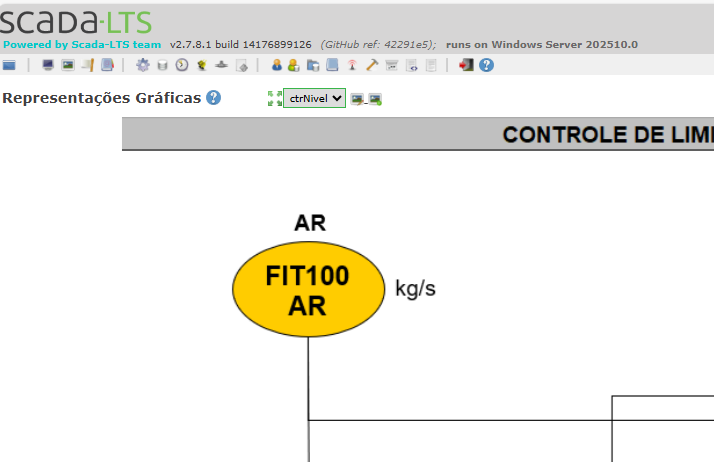
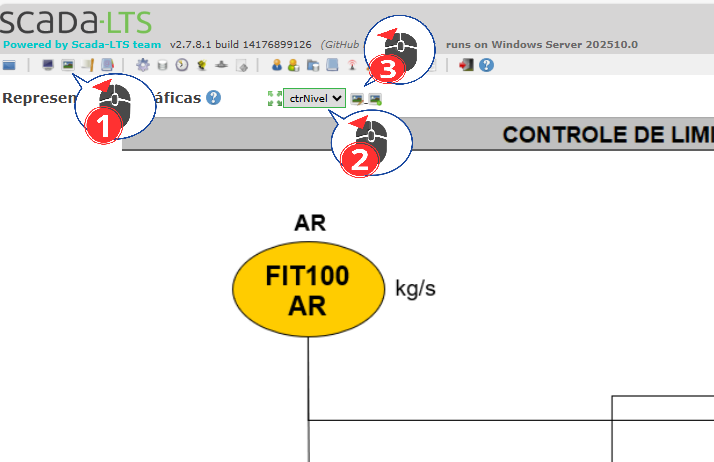
refactor imgs

Changed region(s): [[0.4622, 0.2424, 0.5854, 0.3939], [0.0924, 0.1515, 0.2157, 0.3333], [0.493, 0.0303, 0.6162, 0.1818]]

diff --git a/README.md b/README.md
@@ -578,8 +578,8 @@ Aqui você irá configurar o SCADA‑LTS para **conectar no servidor Modbus (COD
 ### 🔹 Passo 1 – Abrir Data Sources
 ![fig41](assets/configlts/img1.png)
 
-1. No SCADA‑LTS, vá em **Ferramentas → Data Sources**
-2. Clique para adicionar uma nova fonte de dados
+1⃣ No SCADA‑LTS, vá em **Ferramentas → Data Sources**
+2⃣ Clique para adicionar uma nova fonte de dados
 
 ---
 
@@ -587,8 +587,8 @@ Aqui você irá configurar o SCADA‑LTS para **conectar no servidor Modbus (COD
 ### 🔹 Passo 2 – Selecionar “Modbus IP”
 ![fig42](assets/configlts/img2.png)
 
-1. No tipo de Data Source, selecione **Modbus IP**
-2. Confirme para criar a fonte
+1⃣ No tipo de Data Source, selecione **Modbus IP**
+2⃣ Confirme para criar a fonte
 
 ---
 
@@ -596,9 +596,9 @@ Aqui você irá configurar o SCADA‑LTS para **conectar no servidor Modbus (COD
 ### 🔹 Passo 3 – Configurar Host e Porta
 ![fig43](assets/configlts/img3.png)
 
-1. Em **Host**, coloque o IP do servidor (ex.: `localhost` ou IP do PC/PLC)
-2. Em **Port**, coloque a porta Modbus (padrão **502**)
-3. Salve a configuração
+1⃣ Em **Host**, coloque o IP do servidor (ex.: `localhost` ou IP do PC/PLC)
+2⃣ Em **Port**, coloque a porta Modbus (padrão **502**)
+3⃣ Salve a configuração
 
 ---
 
@@ -606,8 +606,8 @@ Aqui você irá configurar o SCADA‑LTS para **conectar no servidor Modbus (COD
 ### 🔹 Passo 4 – Criar Data Point (tela 1)
 ![fig44](assets/configlts/img4.png)
 
-1. Dentro do Data Source criado, clique em **Add Data Point**
-2. Defina nome e tipo do ponto (conforme o registrador)
+1⃣ Dentro do Data Source criado, clique em **Add Data Point**
+2⃣ Defina nome e tipo do ponto (conforme o registrador)
 
 ---
 
@@ -615,8 +615,8 @@ Aqui você irá configurar o SCADA‑LTS para **conectar no servidor Modbus (COD
 ### 🔹 Passo 5 – Criar Data Point (tela 2)
 ![fig45](assets/configlts/img5.png)
 
-1. Configure endereço, função e demais parâmetros
-2. Salve o Data Point
+1⃣ Configure endereço, função e demais parâmetros
+2⃣ Salve o Data Point
 
 ---
 
@@ -624,8 +624,8 @@ Aqui você irá configurar o SCADA‑LTS para **conectar no servidor Modbus (COD
 ### 🔹 Passo 6 – Validar Data Points (tela final)
 ![fig46](assets/configlts/img6.png)
 
-1. Confirme os Data Points criados
-2. Verifique status de conexão e leitura/escrita
+1⃣ Confirme os Data Points criados
+2⃣ Verifique status de conexão e leitura/escrita
 
 ```ST
 // ================================
@@ -678,8 +678,9 @@ ID - TAG
 ### 🔹 Passo 7 –
 ![fig47](assets/configlts/img7.png)
 
-1. 
-2. 
+1⃣ Clique no ícone Editar representação gráfica (ícone do mouse na barra superior).
+2⃣ A tela entrará no modo de edição (bordas verdes visíveis).
+3⃣ Confirme que o nome da view (ex: ctrNivel) está correto no topo.
 
 ---
 
@@ -687,8 +688,16 @@ ID - TAG
 ### 🔹 Passo 8 –
 ![fig48](assets/configlts/img8.png)
 
-1. 
-2. 
+1⃣ Clique no ícone Propriedades da visualização (ícone indicado na imagem).
+2⃣ Será aberta a janela Visualizar propriedades.
+3⃣ Verifique ou ajuste:
+
+Nome
+
+Export ID (XID)
+
+Imagem de fundo (se aplicável)
+4⃣ Clique em Salvar para confirmar alterações.
 
 ---
 
@@ -696,8 +705,9 @@ ID - TAG
 ### 🔹 Passo 9 –
 ![fig49](assets/configlts/img9.png)
 
-1. 
-2. 
+1⃣ Clique sobre o componente gráfico desejado (ex: indicador do processo).
+2⃣ Clique no ícone Editar configurações de componente de data point.
+3⃣ A janela de configuração será aberta para edição do vínculo com o Data Point.
 
 ---
 
@@ -705,8 +715,21 @@ ID - TAG
 ### 🔹 Passo 10 –
 ![fig50](assets/configlts/img10.png)
 
-1. 
-2. 
+1⃣ Na janela Data point simples, selecione o Data Point no campo superior.
+2⃣ Configure conforme necessário:
+
+Sobrescrever nome (opcional)
+
+Marcar Configurável se quiser permitir escrita
+
+Ajustar Cor de fundo
+
+Habilitar Exibir controles se for ponto de escrita
+
+Ajustar Position X / Y se necessário
+
+3⃣ Clique no ícone ✔ (Salvar) no canto superior direito.
+4⃣ Feche a janela (❌).
 
 ---
 
